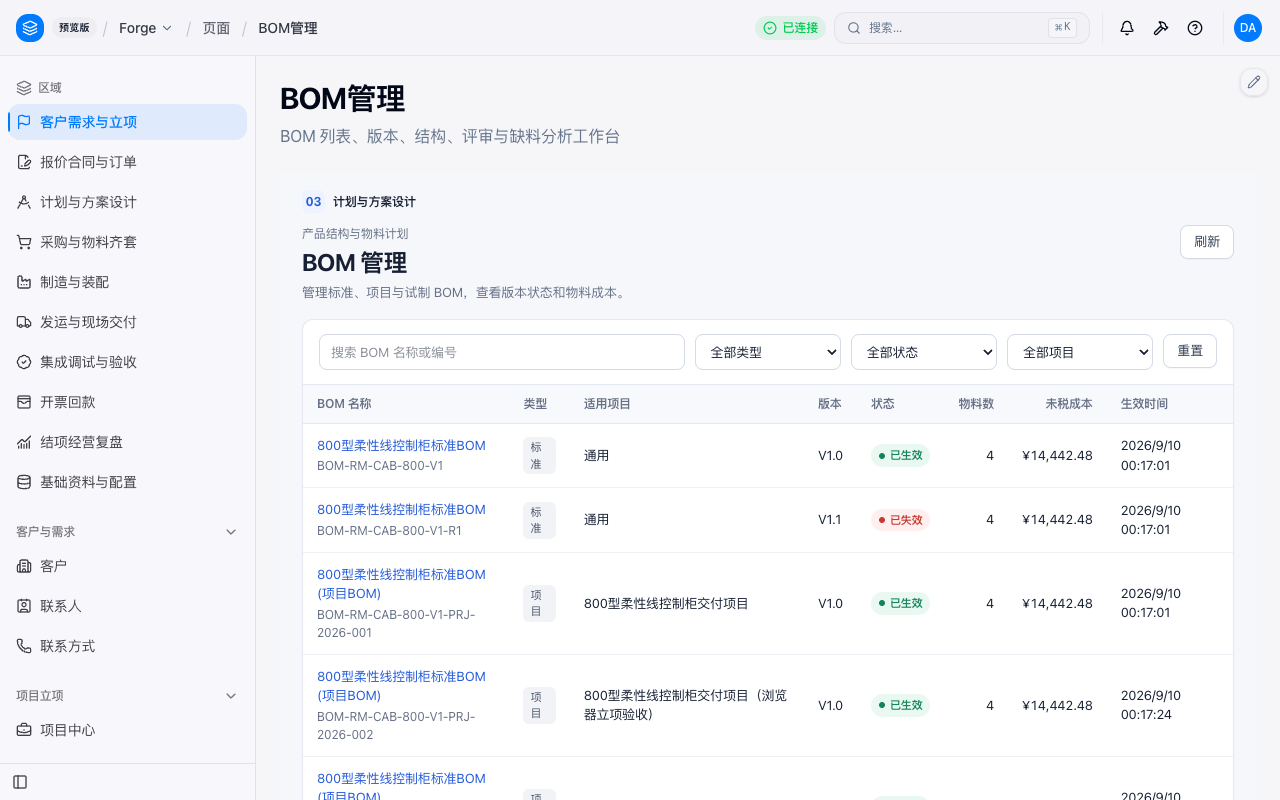
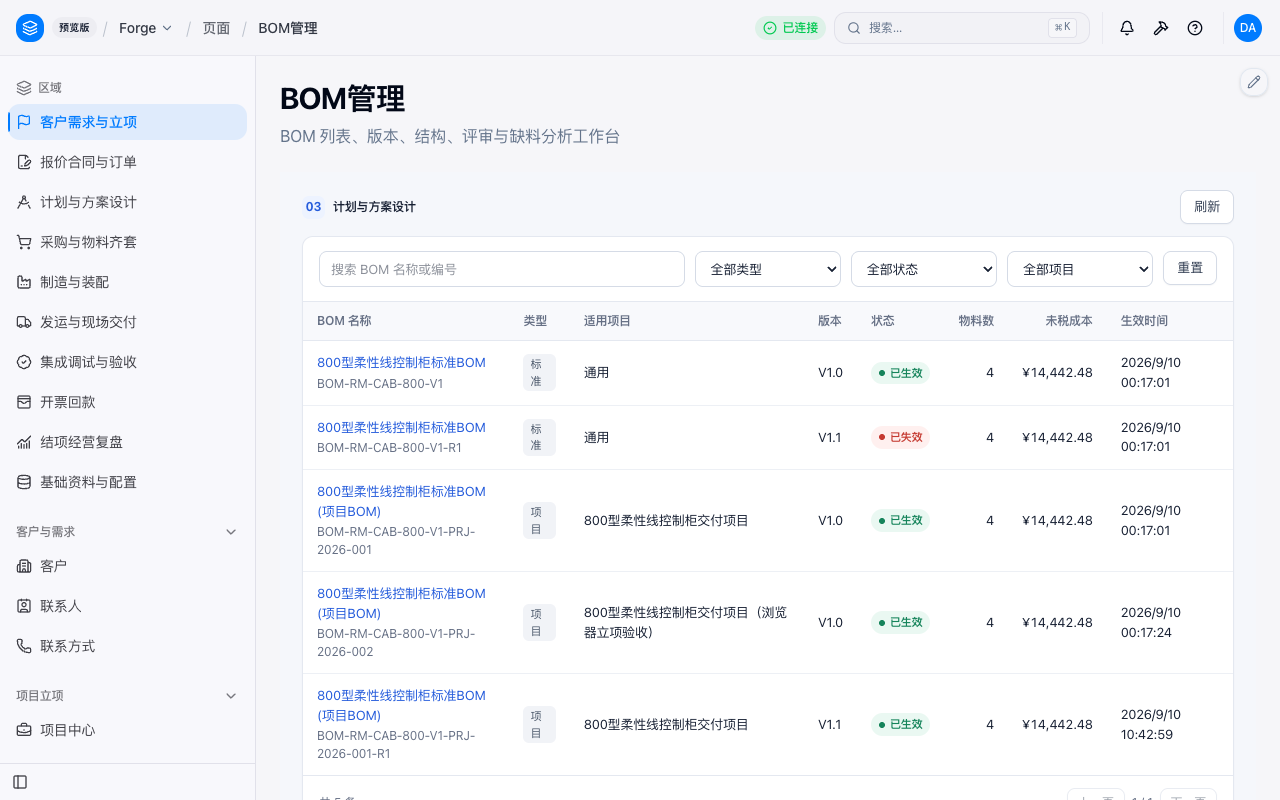
refactor(forge): tighten BOM list workflow

diff --git a/apps/forge-objectstack/src/pages/bom-workspace.page.ts b/apps/forge-objectstack/src/pages/bom-workspace.page.ts
@@ -107,10 +107,11 @@ function App(){
   const typeText={standard:'标准',project:'项目',prototype:'试制','标准':'标准','项目':'项目','试制':'试制'};
   const logText={submitted:'提交评审',approved:'评审通过',rejected:'评审退回',copied:'复制新版本',invalidated:'失效',created:'创建'};
   const nodeTypeText={root:'根节点',component:'物料',material:'物料',group:'分组',sub_bom:'子 BOM','根节点':'根节点','物料':'物料','分组':'分组','子BOM':'子 BOM'};
-  const money=value=>'¥'+Number(value||0).toLocaleString('zh-CN',{minimumFractionDigits:2,maximumFractionDigits:2});
+  const money=value=>value===null||value===undefined||value===''?'—':'¥'+Number(value).toLocaleString('zh-CN',{minimumFractionDigits:2,maximumFractionDigits:2});
   const fmtDate=value=>value?new Date(value).toLocaleString('zh-CN',{hour12:false}):'—';
   const normalized=value=>String(value||'').toLowerCase();
   const projectById=Object.fromEntries((state.projects||[]).map(item=>[item.id,item]));
+  const applicableProjects=(state.projects||[]).filter(project=>state.boms.some(item=>item.project_id===project.id));
   const filtered=state.boms.filter(item=>(!filters.search||(normalized(item.name).includes(normalized(filters.search))||normalized(item.code).includes(normalized(filters.search))))&&(!filters.type||item.bom_type===filters.type)&&(!filters.status||item.status===filters.status)&&(!filters.project||(filters.project==='__none__'?!item.project_id:item.project_id===filters.project)));
   const totalPages=Math.max(1,Math.ceil(filtered.length/pageSize));const currentPage=Math.min(page,totalPages);const visible=filtered.slice((currentPage-1)*pageSize,currentPage*pageSize);
   function changeFilter(patch){setFilters(value=>({...value,...patch}));setPage(1)}
@@ -119,14 +120,20 @@ function App(){
     const rows=[];const visited=new Set();function walk(node,depth){if(visited.has(node.id))return;visited.add(node.id);const children=byParent[node.id]||[];rows.push({node,depth,hasChildren:children.length>0});if(!collapsed[node.id])children.forEach(child=>walk(child,depth+1))}
     (byParent.__root__||[]).forEach(node=>walk(node,0));state.nodes.filter(node=>!visited.has(node.id)).forEach(node=>walk(node,0));return rows
   }
+  function versionFamily(current){
+    if(current.family_key)return state.boms.filter(item=>item.family_key===current.family_key);
+    const ids=new Set([current.id]);let changed=true;
+    while(changed){changed=false;state.boms.forEach(item=>{if(ids.has(item.id)||ids.has(item.source_bom_id)){if(!ids.has(item.id)){ids.add(item.id);changed=true}if(item.source_bom_id&&!ids.has(item.source_bom_id)){ids.add(item.source_bom_id);changed=true}}})}
+    return state.boms.filter(item=>ids.has(item.id));
+  }
   const tabs=['基础资料','BOM结构','缺料分析','版本历史','审批日志'];const bom=state.bom;const analysisStale=state.analysis&&Number(plannedQuantity)!==Number(state.analysis.planned_quantity);
 
-  function BomListScreen(){return <div className="fp-shell"><div className="fp-phase"><span className="fp-phase-index">03</span><strong>计划与方案设计</strong></div><div className="fp-page-header"><div className="fp-heading"><div className="fp-eyebrow">产品结构与物料计划</div><h1 className="fp-title">BOM 管理</h1><div className="fp-description">管理标准、项目与试制 BOM，查看版本状态和物料成本。</div></div><div className="fp-toolbar"><button className="fp-button" onClick={loadList}>刷新</button></div></div>{state.error&&<ForgeNotice tone="error" onClose={()=>setState(s=>({...s,error:''}))}>{state.error}</ForgeNotice>}<section className="fp-card fp-bom-list-card"><div className="fp-filterbar"><div className="fp-search"><input className="fp-input" aria-label="搜索 BOM" placeholder="搜索 BOM 名称或编号" value={filters.search} onChange={e=>changeFilter({search:e.target.value})}/></div><select className="fp-select" aria-label="BOM 类型" value={filters.type} onChange={e=>changeFilter({type:e.target.value})}><option value="">全部类型</option><option value="standard">标准 BOM</option><option value="project">项目 BOM</option><option value="prototype">试制 BOM</option></select><select className="fp-select" aria-label="BOM 状态" value={filters.status} onChange={e=>changeFilter({status:e.target.value})}><option value="">全部状态</option>{Object.entries(statusText).map(([value,label])=><option key={value} value={value}>{label}</option>)}</select><select className="fp-select" aria-label="适用项目" value={filters.project} onChange={e=>changeFilter({project:e.target.value})}><option value="">全部项目</option><option value="__none__">通用 BOM</option>{(state.projects||[]).map(project=><option key={project.id} value={project.id}>{project.name}</option>)}</select><button className="fp-button" onClick={()=>{setFilters({search:'',type:'',status:'',project:''});setPage(1)}}>重置</button></div>{state.loading?<ForgeLoading label="正在加载 BOM 列表"/>:<div className="fp-table-wrap"><table className="fp-table"><thead><tr><th>BOM 名称</th><th>类型</th><th>适用项目</th><th>版本</th><th>状态</th><th className="fp-number">物料数</th><th className="fp-number">未税成本</th><th>生效时间</th></tr></thead><tbody>{visible.map(item=><tr key={item.id} className="fp-row-button"><td><button className="fp-link-button" onClick={()=>routeTo(item.id)}>{item.name}</button><div className="fp-secondary">{item.code}</div></td><td><span className="fp-tag">{typeText[item.bom_type]||item.bom_type}</span></td><td>{projectById[item.project_id]?.name||'通用'}</td><td>{item.version||'—'}</td><td><ForgeStatus value={item.status} label={statusText[item.status]}/></td><td className="fp-number">{item.node_count||0}</td><td className="fp-number">{money(item.total_cost)}</td><td>{fmtDate(item.effective_at)}</td></tr>)}{!visible.length&&<tr><td colSpan="8" className="fp-empty-cell"><ForgeEmpty title="没有符合条件的 BOM" description="调整搜索词或筛选条件后再试"/></td></tr>}</tbody></table></div>}<div className="fp-pagination"><span>共 {filtered.length} 条{filtered.length!==state.boms.length?'筛选结果':''}</span><div className="fp-pagination-actions"><button className="fp-button small" disabled={currentPage<=1} onClick={()=>setPage(currentPage-1)}>上一页</button><span>{currentPage} / {totalPages}</span><button className="fp-button small" disabled={currentPage>=totalPages} onClick={()=>setPage(currentPage+1)}>下一页</button></div></div></section></div>}
+  function BomListScreen(){return <div className="fp-shell"><div className="fp-list-context"><div className="fp-phase"><span className="fp-phase-index">03</span><strong>计划与方案设计</strong></div><button className="fp-button" disabled={state.loading} onClick={loadList}>{state.loading?'刷新中…':'刷新'}</button></div>{state.error&&<ForgeNotice tone="error" onClose={()=>setState(s=>({...s,error:''}))}>{state.error}</ForgeNotice>}<section className="fp-card fp-bom-list-card"><div className="fp-filterbar"><div className="fp-search"><input className="fp-input" aria-label="搜索 BOM" placeholder="搜索 BOM 名称或编号" value={filters.search} onChange={e=>changeFilter({search:e.target.value})}/></div><select className="fp-select" aria-label="BOM 类型" value={filters.type} onChange={e=>changeFilter({type:e.target.value})}><option value="">全部类型</option><option value="standard">标准 BOM</option><option value="project">项目 BOM</option><option value="prototype">试制 BOM</option></select><select className="fp-select" aria-label="BOM 状态" value={filters.status} onChange={e=>changeFilter({status:e.target.value})}><option value="">全部状态</option>{Object.entries(statusText).map(([value,label])=><option key={value} value={value}>{label}</option>)}</select><select className="fp-select" aria-label="适用项目" value={filters.project} onChange={e=>changeFilter({project:e.target.value})}><option value="">全部项目</option><option value="__none__">通用 BOM</option>{applicableProjects.map(project=><option key={project.id} value={project.id}>{project.name}</option>)}</select><button className="fp-button" onClick={()=>{setFilters({search:'',type:'',status:'',project:''});setPage(1)}}>重置</button></div>{state.loading?<ForgeLoading label="正在加载 BOM 列表"/>:<div className="fp-table-wrap"><table className="fp-table"><thead><tr><th>BOM 名称</th><th>类型</th><th>适用项目</th><th>版本</th><th>状态</th><th className="fp-number">物料数</th><th className="fp-number">未税成本</th><th>生效时间</th></tr></thead><tbody>{visible.map(item=><tr key={item.id} className="fp-row-button"><td><button className="fp-link-button" onClick={()=>routeTo(item.id)}>{item.name}</button><div className="fp-secondary">{item.code}</div></td><td><span className="fp-tag">{typeText[item.bom_type]||item.bom_type}</span></td><td>{projectById[item.project_id]?.name||'通用'}</td><td>{item.version||'—'}</td><td><ForgeStatus value={item.status} label={statusText[item.status]}/></td><td className="fp-number">{item.node_count||0}</td><td className="fp-number">{money(item.total_cost)}</td><td>{fmtDate(item.effective_at)}</td></tr>)}{!visible.length&&<tr><td colSpan="8" className="fp-empty-cell"><ForgeEmpty title="没有符合条件的 BOM" description="调整搜索词或筛选条件后再试"/></td></tr>}</tbody></table></div>}<div className="fp-pagination"><span>共 {filtered.length} 条{filtered.length!==state.boms.length?'筛选结果':''}</span><div className="fp-pagination-actions"><button className="fp-button small" disabled={currentPage<=1} onClick={()=>setPage(currentPage-1)}>上一页</button><span>{currentPage} / {totalPages}</span><button className="fp-button small" disabled={currentPage>=totalPages} onClick={()=>setPage(currentPage+1)}>下一页</button></div></div></section></div>}
 
   function DetailView(){
     if(state.loading)return <div className="fp-shell"><ForgeLoading label="正在加载 BOM 详情"/></div>;
     if(!bom)return <div className="fp-shell"><ForgeNotice tone="error">{state.error||'无法读取 BOM'}</ForgeNotice><button className="fp-button" onClick={()=>routeTo(null)}>返回 BOM 列表</button></div>;
-    const versions=state.boms.filter(item=>item.id===bom.id||(bom.family_key&&item.family_key===bom.family_key)||item.source_bom_id===bom.id||bom.source_bom_id===item.id);
+    const versions=versionFamily(bom);
     return <div className="fp-shell"><div className="fp-phase"><span className="fp-phase-index">03</span><button className="fp-link-button" onClick={()=>routeTo(null)}>BOM 管理</button><span>/</span><strong>{bom.name}</strong></div>{state.error&&<ForgeNotice tone="error" onClose={()=>setState(s=>({...s,error:''}))}>{state.error}</ForgeNotice>}<div className="fp-page-header"><div className="fp-heading"><div className="fp-eyebrow">{state.project?'项目 · '+state.project.name:'产品结构'}</div><div className="fp-title-row"><h1 className="fp-title">{bom.name}</h1><ForgeStatus value={bom.status} label={statusText[bom.status]}/></div><div className="fp-record-summary"><span>{bom.code}</span><span>{typeText[bom.bom_type]||bom.bom_type} BOM</span><span>{bom.version||'—'}</span><span>{bom.product_name||'未填写产品/设备'}</span></div></div><div className="fp-toolbar"><button className="fp-button" onClick={()=>routeTo(null)}>返回列表</button><button className="fp-button" disabled={busy} onClick={()=>loadDetail(bom.id)}>刷新</button>{bom.status==='active'&&<button className="fp-button danger" onClick={()=>openDialog('invalidate')}>失效</button>}{bom.status==='active'&&<button className="fp-button" onClick={()=>openDialog('copy')}>复制新版本</button>}{bom.status==='draft'&&<button className="fp-button primary" disabled={busy} onClick={()=>invoke('bom_submit_review',{},'BOM 已提交评审')}>{busy?'处理中…':'提交评审'}</button>}{bom.status==='pending_review'&&<button className="fp-button primary" onClick={()=>openDialog('review')}>评审 BOM</button>}</div></div><section className="fp-card fp-detail-card"><nav className="fp-tabs" aria-label="BOM 详情页签">{tabs.map(name=><button key={name} className={'fp-tab '+(tab===name?'active':'')} onClick={()=>setTab(name)}>{name}</button>)}</nav><div className="fp-detail-content">
       {tab==='基础资料'&&<BasicTab/>}{tab==='BOM结构'&&<StructureTab/>}{tab==='缺料分析'&&<ShortageTab/>}{tab==='版本历史'&&<VersionTab versions={versions}/>} {tab==='审批日志'&&<LogTab/>}
     </div></section></div>
@@ -136,7 +143,7 @@ function App(){
   function StructureTab(){return <><div className="fp-section-heading"><h2>BOM 结构</h2><span className="fp-list-count">{state.nodes.length} 个节点，{bom.node_count||0} 个物料</span></div>{!state.nodes.length?<ForgeEmpty title="尚未建立 BOM 结构" description="草稿 BOM 需要先建立根节点和物料明细"/>:<div className="fp-table-wrap"><table className="fp-table"><thead><tr><th>节点 / 物料</th><th>节点类型</th><th className="fp-number">单机用量</th><th>位号</th><th>关键件</th></tr></thead><tbody>{treeRows().map(({node,depth,hasChildren})=><tr key={node.id}><td><div className="fp-tree-name"><span className="fp-tree-indent" style={{width:depth*22}}></span>{hasChildren?<button className="fp-tree-toggle" aria-label={(collapsed[node.id]?'展开':'收起')+node.name} onClick={()=>setCollapsed(value=>({...value,[node.id]:!value[node.id]}))}>{collapsed[node.id]?'›':'⌄'}</button>:<span className="fp-tree-spacer"></span>}<span>{node.name}</span>{node.is_key_part&&<span className="fp-key">关键件</span>}</div></td><td>{nodeTypeText[node.node_type]||node.node_type}</td><td className="fp-number">{node.quantity}</td><td>{node.position||'—'}</td><td>{node.is_key_part?'是':'否'}</td></tr>)}</tbody></table></div>}</>}
   function ShortageTab(){return <><div className="fp-action-strip"><div className="fp-field"><label>计划生产数量 <span className="fp-required">*</span></label><input className="fp-input" aria-label="计划生产数量" type="number" min="0.0001" step="1" value={plannedQuantity} onChange={e=>{setPlannedQuantity(e.target.value);setAnalysisError('')}}/></div><button className="fp-button primary" disabled={busy||bom.status!=='active'} onClick={analyze}>{busy?'分析中…':state.analysis?'重新分析':'开始分析'}</button><div className="fp-action-note">仅已生效版本可分析，结果将保存为历史快照</div></div>{analysisError&&<ForgeNotice tone="error">{analysisError}</ForgeNotice>}{bom.status!=='active'&&<ForgeNotice tone="warning">当前版本为{statusText[bom.status]}，评审生效后才能进行缺料分析。</ForgeNotice>}{analysisStale&&<ForgeNotice tone="warning">输入已修改。当前结果仍基于计划数量 {state.analysis.planned_quantity}，重新分析后才会更新。</ForgeNotice>}{!state.analysis?<ForgeEmpty title="还没有缺料分析" description="设置计划生产数量后开始分析，系统会按当前库存保存一份快照"/>:<><div className="fp-analysis-source"><span>当前结果</span><strong>计划数量 {state.analysis.planned_quantity}</strong><span>·</span><span>{fmtDate(state.analysis.analyzed_at)}</span><span>·</span><span>共 {state.analyses.length} 次分析</span></div><div className="fp-metrics"><Metric label="齐套率" value={state.analysis.kit_rate+'%'} warning={Number(state.analysis.kit_rate)<100}/><Metric label="采购件总数" value={state.analysis.component_count}/><Metric label="缺口项" value={state.analysis.shortage_count} warning={Number(state.analysis.shortage_count)>0}/><Metric label="最大可生产数" value={state.analysis.max_producible_quantity}/><Metric label="预计采购金额" value={money(state.analysis.estimated_purchase_amount)} warning/></div><div className="fp-table-wrap"><table className="fp-table"><thead><tr><th>物料编码</th><th>名称 / 规格</th><th>单位</th><th className="fp-number">单机用量</th><th className="fp-number">总需求</th><th className="fp-number">可用</th><th className="fp-number">缺口</th><th className="fp-number">未税单价</th><th className="fp-number">小计</th></tr></thead><tbody>{state.shortageLines.map(line=><tr key={line.id}><td>{line.item_code}</td><td>{line.name}<div className="fp-secondary">{line.specification||line.model||'—'}</div></td><td>{line.unit_name||'—'}</td><td className="fp-number">{line.required_per_unit}</td><td className="fp-number">{line.total_required}</td><td className="fp-number">{line.available_quantity}</td><td className="fp-number" style={{color:Number(line.shortage_quantity)>0?'var(--fp-danger)':'inherit',fontWeight:Number(line.shortage_quantity)>0?650:400}}>{line.shortage_quantity}</td><td className="fp-number">{money(line.untaxed_unit_price)}</td><td className="fp-number">{money(line.subtotal)}</td></tr>)}</tbody></table></div></>}</>}
   function Metric({label,value,warning=false}){return <div className={'fp-metric '+(warning?'warning':'')}><div className="fp-metric-label">{label}</div><div className="fp-metric-value">{value}</div></div>}
-  function VersionTab({versions}){return <><div className="fp-section-heading"><h2>版本历史</h2><span className="fp-list-count">同一版本族 {versions.length} 条记录</span></div><div className="fp-version-list">{versions.slice().sort((a,b)=>String(b.version||'').localeCompare(String(a.version||''))).map(item=><div key={item.id} className={'fp-version-item '+(item.id===bom.id?'current':'')}><button onClick={()=>routeTo(item.id)}>{item.version} · {item.name}<div className="fp-secondary">{item.code}</div></button><ForgeStatus value={item.status} label={statusText[item.status]}/><span>{item.node_count||0} 项</span><span>{money(item.total_cost)}</span><span>{fmtDate(item.effective_at)}</span></div>)}</div></>}
+  function VersionTab({versions}){return <><div className="fp-section-heading"><h2>版本历史</h2><span className="fp-list-count">同一版本族 {versions.length} 条记录</span></div><div className="fp-version-list">{versions.slice().sort((a,b)=>String(b.version||'').localeCompare(String(a.version||''),'zh-CN',{numeric:true})).map(item=><div key={item.id} className={'fp-version-item '+(item.id===bom.id?'current':'')}><button onClick={()=>routeTo(item.id)}>{item.version} · {item.name}<div className="fp-secondary">{item.code}</div></button><ForgeStatus value={item.status} label={statusText[item.status]}/><span>{item.node_count||0} 项</span><span>{money(item.total_cost)}</span><span>{fmtDate(item.effective_at)}</span></div>)}</div></>}
   function LogTab(){return <><div className="fp-section-heading"><h2>审批日志</h2><span className="fp-list-count">{state.logs.length} 条记录</span></div>{!state.logs.length?<ForgeEmpty title="还没有审批记录" description="提交评审后，流转记录会显示在这里"/>:<div className="fp-timeline">{state.logs.slice().sort((a,b)=>String(b.occurred_at).localeCompare(String(a.occurred_at))).map(log=><div className="fp-event" key={log.id}><div className="fp-event-marker"><span className="fp-event-dot"></span></div><div><div className="fp-event-title">{logText[log.action]||log.action}</div><div className="fp-event-note">{fmtDate(log.occurred_at)}</div></div><div className="fp-event-note">{log.comment||'—'}<br/>{statusText[log.from_status]||log.from_status||'—'} → {statusText[log.to_status]||log.to_status||'—'}</div></div>)}</div>}</>}
   return <div className="forge-product forge-bom"><style>{css}</style>{view==='list'?<BomListScreen/>:<DetailView/>}{toast&&<div className="fp-toast" role="status">{toast}</div>}<ForgeDialog open={!!dialog} title={dialog?.title} subtitle={dialog?.subtitle} error={dialog?.error} busy={busy} confirmLabel={dialog?.kind==='review'?(dialog.decision==='approve'?'确认通过':'确认退回'):dialog?.kind==='copy'?'创建新版本':'确认失效'} danger={dialog?.kind==='invalidate'||(dialog?.kind==='review'&&dialog.decision==='reject')} onCancel={()=>!busy&&setDialog(null)} onConfirm={confirmDialog}>{dialog?.kind==='review'&&<><div className="fp-field"><label>评审结论 <span className="fp-required">*</span></label><select className="fp-select" aria-label="评审结论" value={dialog.decision} onChange={e=>setDialog({...dialog,decision:e.target.value,error:''})}><option value="approve">同意</option><option value="reject">退回修改</option></select></div><div className="fp-field"><label>评审意见 <span className="fp-required">*</span></label><textarea className="fp-textarea" aria-label="评审意见" value={dialog.comment} onChange={e=>setDialog({...dialog,comment:e.target.value,error:''})} placeholder="说明评审依据或需要修改的内容"/></div></>}{dialog?.kind==='copy'&&<div className="fp-field"><label>版本变更说明 <span className="fp-required">*</span></label><textarea className="fp-textarea" aria-label="版本变更说明" value={dialog.change_note} onChange={e=>setDialog({...dialog,change_note:e.target.value,error:''})} placeholder="说明本次版本调整的原因和范围"/></div>}{dialog?.kind==='invalidate'&&<div className="fp-field"><label>失效原因 <span className="fp-required">*</span></label><textarea className="fp-textarea" aria-label="失效原因" value={dialog.reason} onChange={e=>setDialog({...dialog,reason:e.target.value,error:''})} placeholder="说明为什么停止使用这个版本"/></div>}</ForgeDialog></div>
 }

diff --git a/apps/forge-objectstack/src/pages/product-ui.ts b/apps/forge-objectstack/src/pages/product-ui.ts
@@ -1,6 +1,6 @@
 export const forgeProductUiCss = `
 .forge-product{--fp-bg:#f5f7fb;--fp-surface:#fff;--fp-line:#e4e8f0;--fp-line-strong:#d5dbe6;--fp-text:#172033;--fp-muted:#667085;--fp-subtle:#98a2b3;--fp-primary:#245bdb;--fp-primary-hover:#1948bb;--fp-primary-soft:#edf3ff;--fp-success:#16845b;--fp-success-soft:#eaf8f2;--fp-warning:#b86500;--fp-warning-soft:#fff6e5;--fp-danger:#c53b32;--fp-danger-soft:#fff0ef;min-height:calc(100vh - 112px);background:var(--fp-bg);color:var(--fp-text);font-family:-apple-system,BlinkMacSystemFont,'Segoe UI','PingFang SC','Microsoft YaHei',sans-serif;font-size:13px;line-height:1.5}.forge-product *{box-sizing:border-box}.forge-product button,.forge-product input,.forge-product select,.forge-product textarea{font:inherit}.forge-product button{cursor:pointer}.forge-product button:disabled{cursor:not-allowed;opacity:.52}
-.fp-shell{max-width:1520px;margin:0 auto;padding:18px 22px 40px}.fp-phase{display:flex;align-items:center;gap:8px;color:var(--fp-muted);font-size:12px;margin-bottom:12px}.fp-phase-index{display:inline-flex;align-items:center;justify-content:center;width:23px;height:23px;border-radius:7px;background:var(--fp-primary-soft);color:var(--fp-primary);font-weight:700}.fp-phase strong{color:var(--fp-text);font-weight:620}.fp-page-header{display:flex;justify-content:space-between;align-items:flex-start;gap:24px;margin-bottom:16px}.fp-heading{min-width:0}.fp-eyebrow{color:var(--fp-muted);font-size:12px;margin-bottom:3px}.fp-title-row{display:flex;align-items:center;gap:9px;min-width:0}.fp-title{margin:0;font-size:24px;line-height:1.35;letter-spacing:-.02em;font-weight:680;white-space:nowrap;overflow:hidden;text-overflow:ellipsis}.fp-description{margin-top:5px;color:var(--fp-muted)}.fp-toolbar{display:flex;align-items:center;justify-content:flex-end;gap:8px;flex-wrap:wrap}
+.fp-shell{max-width:1520px;margin:0 auto;padding:18px 22px 40px}.fp-list-context{display:flex;align-items:center;justify-content:space-between;gap:16px;margin-bottom:12px}.fp-list-context .fp-phase{margin-bottom:0}.fp-phase{display:flex;align-items:center;gap:8px;color:var(--fp-muted);font-size:12px;margin-bottom:12px}.fp-phase-index{display:inline-flex;align-items:center;justify-content:center;width:23px;height:23px;border-radius:7px;background:var(--fp-primary-soft);color:var(--fp-primary);font-weight:700}.fp-phase strong{color:var(--fp-text);font-weight:620}.fp-page-header{display:flex;justify-content:space-between;align-items:flex-start;gap:24px;margin-bottom:16px}.fp-heading{min-width:0}.fp-eyebrow{color:var(--fp-muted);font-size:12px;margin-bottom:3px}.fp-title-row{display:flex;align-items:center;gap:9px;min-width:0}.fp-title{margin:0;font-size:24px;line-height:1.35;letter-spacing:-.02em;font-weight:680;white-space:nowrap;overflow:hidden;text-overflow:ellipsis}.fp-description{margin-top:5px;color:var(--fp-muted)}.fp-toolbar{display:flex;align-items:center;justify-content:flex-end;gap:8px;flex-wrap:wrap}
 .fp-button{height:34px;border:1px solid var(--fp-line-strong);border-radius:8px;background:#fff;color:#344054;padding:0 13px;font-weight:560;box-shadow:0 1px 1px rgba(16,24,40,.03)}.fp-button:hover:not(:disabled){border-color:#b7c0cf;background:#fafbfc}.fp-button.primary{background:var(--fp-primary);border-color:var(--fp-primary);color:#fff}.fp-button.primary:hover:not(:disabled){background:var(--fp-primary-hover);border-color:var(--fp-primary-hover)}.fp-button.danger{color:var(--fp-danger);border-color:#efc4c0}.fp-button.small{height:30px;padding:0 10px;font-size:12px}.fp-card{background:var(--fp-surface);border:1px solid var(--fp-line);border-radius:11px;box-shadow:0 1px 2px rgba(16,24,40,.025)}
 .fp-filterbar{display:grid;grid-template-columns:minmax(220px,1.2fr) repeat(3,minmax(140px,.48fr)) auto;gap:10px;padding:14px 16px;border-bottom:1px solid var(--fp-line)}.fp-input,.fp-select,.fp-textarea{width:100%;border:1px solid var(--fp-line-strong);border-radius:8px;background:#fff;color:var(--fp-text);outline:none;transition:border .15s,box-shadow .15s}.fp-input,.fp-select{height:36px;padding:0 11px}.fp-textarea{min-height:92px;padding:9px 11px;resize:vertical}.fp-input:focus,.fp-select:focus,.fp-textarea:focus{border-color:#7aa2f7;box-shadow:0 0 0 3px rgba(36,91,219,.11)}.fp-field label{display:block;margin-bottom:6px;color:#475467;font-size:12px;font-weight:570}.fp-required{color:var(--fp-danger)}
 .fp-table-wrap{overflow:auto}.fp-table{width:100%;border-collapse:separate;border-spacing:0;min-width:850px}.fp-table th{position:sticky;top:0;z-index:1;background:#f8f9fc;color:#667085;text-align:left;font-size:12px;font-weight:600;padding:10px 14px;border-bottom:1px solid var(--fp-line);white-space:nowrap}.fp-table td{padding:12px 14px;border-bottom:1px solid #edf0f5;vertical-align:middle}.fp-table tbody tr:last-child td{border-bottom:0}.fp-table tbody tr.fp-row-button:hover td{background:#f8faff}.fp-table .fp-number{text-align:right;font-variant-numeric:tabular-nums}.fp-link-button{border:0;background:transparent;padding:0;color:var(--fp-primary);font-weight:600;text-align:left}.fp-link-button:hover{text-decoration:underline}.fp-secondary{color:var(--fp-muted);font-size:12px;margin-top:2px}.fp-empty-cell{padding:0!important}

diff --git a/docs/forge-productization-p0-verification.md b/docs/forge-productization-p0-verification.md
@@ -13,8 +13,8 @@
 
 ## 页面办理与结果
 
-1. 从 BOM 列表打开项目 BOM `QJiM2yQiwfQ1Nx21`，核对项目、客户、物料、V1.0 状态和 5 个真实层级节点。
-2. 通过“复制新版本”对话框填写“产品化 P0 浏览器办理验证”，创建并自动打开 `pzRz5vyFgvG8e_dk`。新记录为 V1.1 草稿，复制了 5 个节点。
+1. BOM 列表不重复渲染宿主页标题，项目筛选只列出实际存在 BOM 的项目；选择“800型柔性线控制柜交付项目”得到 2 条版本记录。从列表打开项目 BOM `QJiM2yQiwfQ1Nx21`，核对项目、客户、物料、V1.0 状态和 5 个真实层级节点。
+2. 通过“复制新版本”对话框填写“产品化 P0 浏览器办理验证”，创建并自动打开 `pzRz5vyFgvG8e_dk`。新记录为 V1.1 草稿，复制了 5 个节点；从新版本打开版本历史仍能沿复制关系回读完整的 2 条版本族记录。
 3. 提交评审后打开评审对话框。空意见显示中文就地错误，输入留在对话框内；填写“产品化 P0 页面、结构与用量核对通过”后通过评审。
 4. 审批日志回读到 `submitted` 与 `approved` 两条记录；V1.1 状态为 `active`。
 5. 在标准 BOM `HNNTfazuFQXcjF2l` 以计划数量 1 执行缺料分析，保存快照 `003AxIU9tW2xwdfa`。页面与 API 均显示齐套率 80%、采购件 4、缺口 1、最大可生产数 0、预计采购金额 ¥2,831.86，明细 4 行。将输入改为 2 后，页面明确提示当前结果仍基于数量 1。
